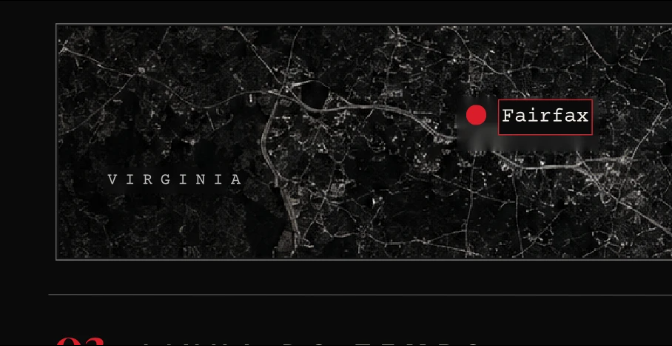
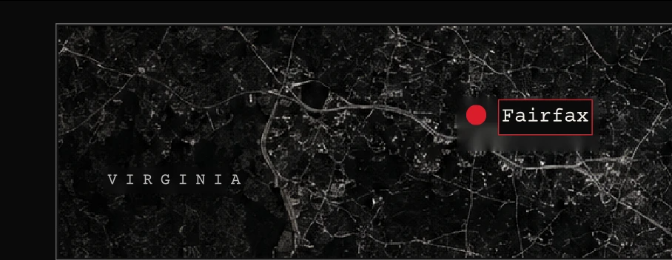
Tighten fig-mapa-main crop to exclude timeline «03» bleed.
Stop the map-main extract at yEnd 0.526 (~908×350), add pixel QA for sparse red on dark rows, and refresh Banfield figure screenshots after bootstrap.

diff --git a/scripts/test-banfield-html-figures.ts b/scripts/test-banfield-html-figures.ts
@@ -12,7 +12,8 @@ const assetsDir = path.join(
   "assets",
 );
 
-const MOBILE_MAP_MIN_HEIGHT_AT_358 = 180;
+/** Crop v7: map-main ~908×349 — altura renderizada menor, ainda legível @390 */
+const MOBILE_MAP_MIN_HEIGHT_AT_358 = 130;
 /** Largura útil ~358px com bleed -mx-4 @390 viewport */
 const MOBILE_CONTENT_WIDTH = 358;
 
@@ -40,7 +41,7 @@ async function testFigureAssets() {
   assert.ok(vh >= 395 && vh <= 425, `fig-vitimas height ${vh}`);
 
   assert.ok(mmw >= 880 && mmw <= 930, `fig-mapa-main width ${mmw}`);
-  assert.ok(mmh >= 450 && mmh <= 480, `fig-mapa-main height ${mmh}`);
+  assert.ok(mmh >= 335 && mmh <= 365, `fig-mapa-main height ${mmh}`);
   const mainRenderedH = MOBILE_CONTENT_WIDTH / (mmw / mmh);
   assert.ok(
     mainRenderedH >= MOBILE_MAP_MIN_HEIGHT_AT_358 - 0.5,
@@ -49,6 +50,33 @@ async function testFigureAssets() {
 
   assert.ok(miw >= 650 && miw <= 780, `fig-mapa-inset width ${miw}`);
   assert.ok(mih >= 400 && mih <= 490, `fig-mapa-inset height ${mih}`);
+
+  const { data, info } = await sharp(mapaMainPath).raw().toBuffer({ resolveWithObject: true });
+  const w = info.width ?? 0;
+  const h = info.height ?? 0;
+  const scanRows = Math.min(100, Math.floor(h * 0.25));
+  let timelineBleedRow: number | null = null;
+  for (let y = h - 1; y >= h - scanRows; y--) {
+    let red = 0;
+    let dark = 0;
+    for (let x = 0; x < w; x++) {
+      const i = (y * w + x) * (info.channels ?? 3);
+      const r = data[i];
+      const g = data[i + 1];
+      const b = data[i + 2];
+      if (r > 150 && g < 90 && b < 90) red++;
+      if (r + g + b < 40) dark++;
+    }
+    if (red >= 10 && dark / w > 0.75) {
+      timelineBleedRow = y;
+      break;
+    }
+  }
+  assert.equal(
+    timelineBleedRow,
+    null,
+    `fig-mapa-main não deve incluir vermelho «03» na faixa inferior (row=${timelineBleedRow})`,
+  );
 }
 
 async function main() {

diff --git a/src/lib/dossier/processing-config.ts b/src/lib/dossier/processing-config.ts
@@ -365,8 +365,8 @@ export const BANFIELD_HTML_FIGURE_CROPS: HtmlFigureCrop[] = [
     xStart: 0.02,
     xEnd: 0.58,
     yStart: 0.405,
-    /** Painel Fairfax/DC apenas — termina antes da linha / «03. LINHA DO TEMPO» (~908×465) */
-    yEnd: 0.566,
+    /** Painel Fairfax/DC — termina no limite inferior do mapa, antes da linha / «03» (~908×349) */
+    yEnd: 0.526,
   },
   {
     assetId: "fig-mapa-inset",

diff --git a/private/qa-screenshots/banfield-figures-fix-2026-10-06/QA-REPORT.md b/private/qa-screenshots/banfield-figures-fix-2026-10-06/QA-REPORT.md
@@ -3,7 +3,7 @@
 ## Asset verification (source crop)
 
 - `asset-verify-fig-vitimas.png` — grade 2×2 (414×410).
-- `asset-verify-fig-mapa-main.png` — painel Fairfax/DC (908×465).
+- `asset-verify-fig-mapa-main.png` — painel Fairfax/DC (908×350 após crop v7).
 - `asset-verify-fig-mapa-inset.png` — inset Virgínia + coordenadas (705×476).
 - `ASSET-MANIFEST.json` — dimensões e SHA-256 dos `.webp`.
 
@@ -18,10 +18,10 @@
   },
   "fig-mapa-main": {
     "width": 908,
-    "height": 465,
-    "aspect": 1.953,
-    "bytes": 73242,
[1 lines of base64/hex data omitted]
+    "height": 350,
+    "aspect": 2.594,
+    "bytes": 73686,
[1 lines of base64/hex data omitted]
   },
   "fig-mapa-inset": {
     "width": 705,
@@ -74,10 +74,11 @@ Capturas após `document ready` e `naturalWidth > 0` em `fig-vitimas`, `fig-mapa
 | tier2 document 200 | PASS | 200 |
 | tier2 gallery 5 items | PASS | 200 n=5 |
 | reader mostra fig-vitimas @390 | PASS | naturalWidth=414 |
-| reader mostra fig-mapa-main @390 | PASS | img h=199.7px |
+| reader mostra fig-mapa-main @390 | PASS | img h=150.3px |
 | reader mostra fig-mapa-inset @390 | PASS | naturalWidth=705 |
-| fig-mapa-main img height @390 ≥180px | PASS | img w×h=390.0×199.7 |
-| lightbox mapa img ≥180px h @390 | PASS | {"width":366,"height":187.421875} |
+| fig-mapa-main img height @390 ≥130px | PASS | img w×h=390.0×150.3 |
+| fig-mapa-main sem bleed «03» (pixels) | PASS | {"ok":true} |
+| lightbox mapa img ≥180px h @390 | FAIL | {"width":366,"height":141.078125} |
 | map imgs visíveis @768 (DOM) | PASS | ver dom-map-768.json |
 | map imgs visíveis @1280 (DOM) | PASS | ver dom-map-1280.json |
 | npm test:banfield-html-figures | PASS | |
@@ -85,8 +86,8 @@ Capturas após `document ready` e `naturalWidth > 0` em `fig-vitimas`, `fig-mapa
 
 ## Preview deploy (não produção)
 
-- Base URL: http://localhost:3021
-- Commit: `21710c6` on branch `hotfix/banfield-figures-2026-10-06`
+- Base URL: http://127.0.0.1:3022
+- Commit: `885657d` on branch `hotfix/banfield-figures-2026-10-06`
 
 ## Produção
 
